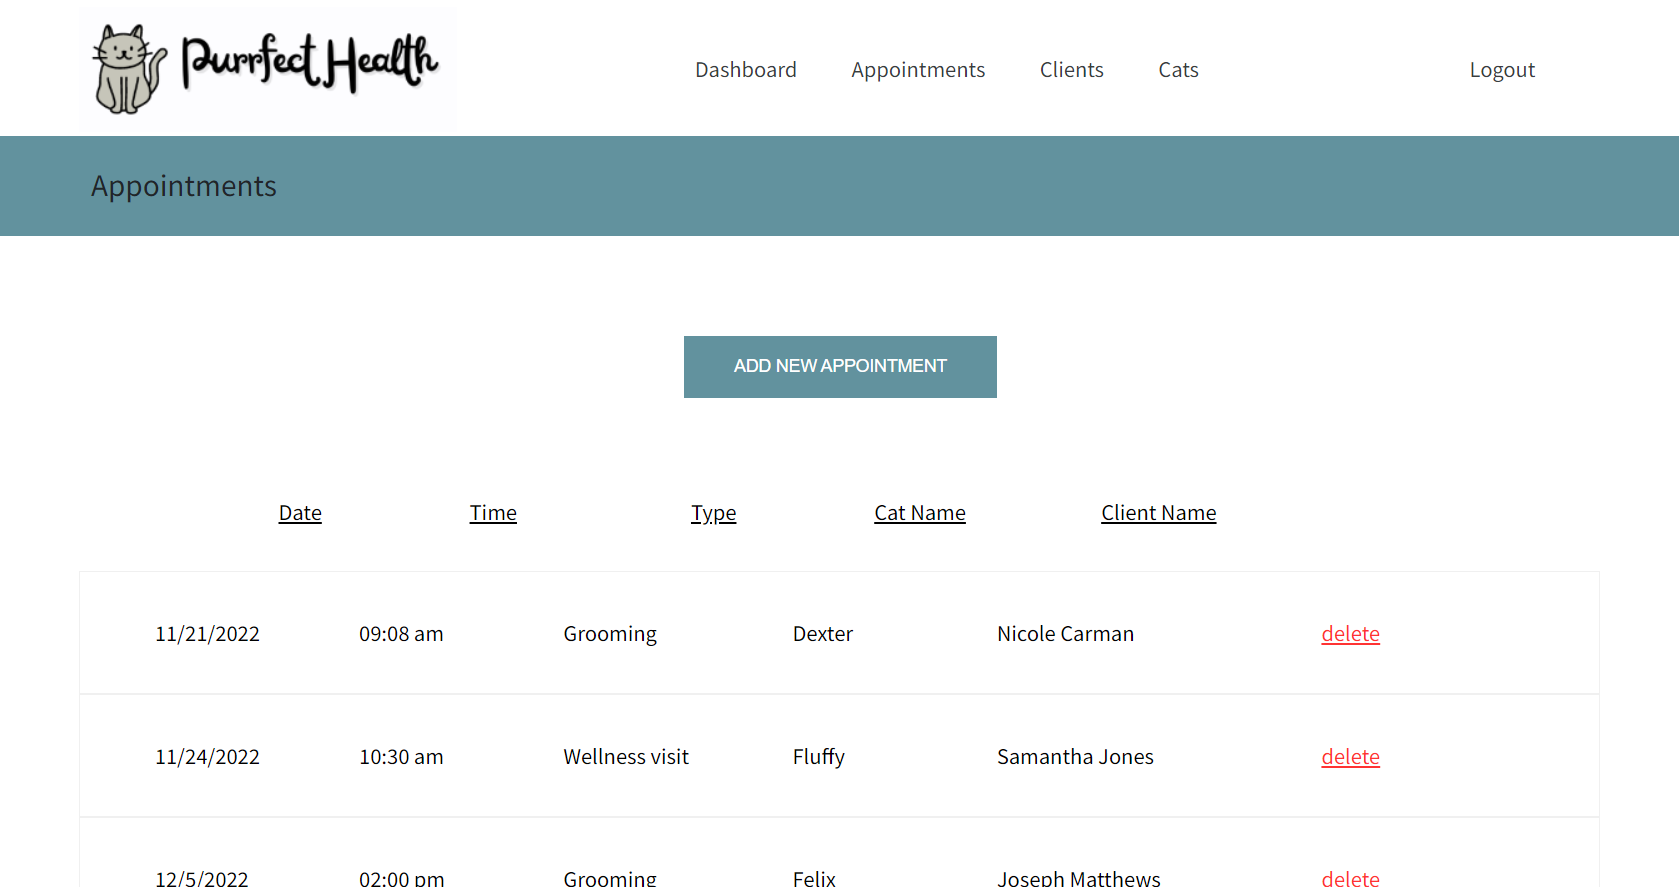
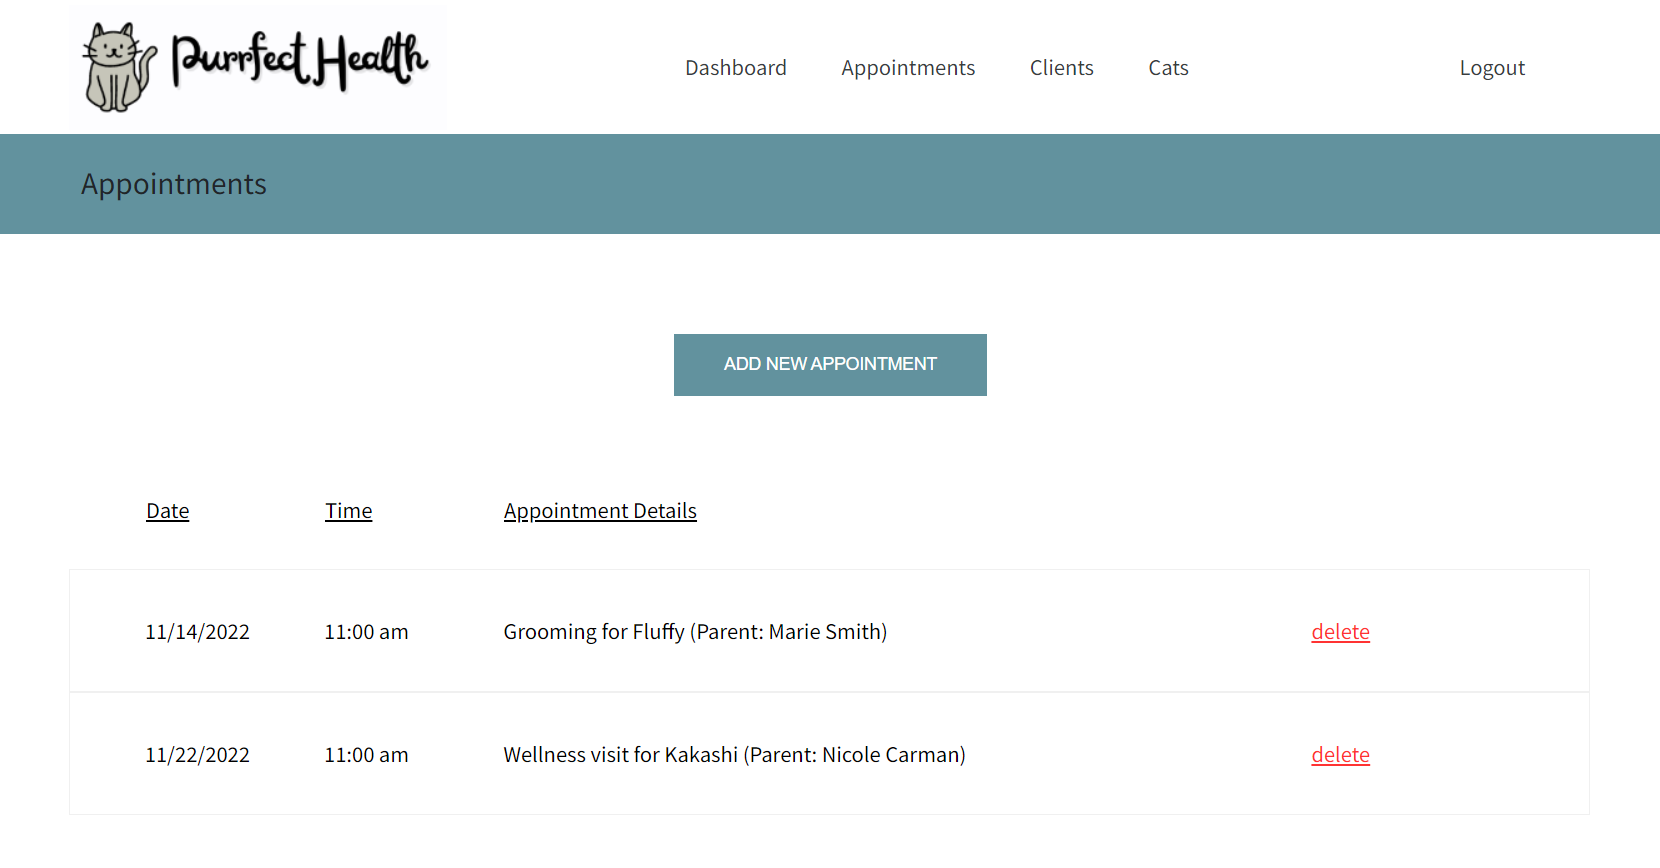
Updated styling on Appointments, Clients, and Cats pages. Updated screenshots for these pages.

diff --git a/src/main/resources/static/cat/cats.js b/src/main/resources/static/cat/cats.js
@@ -93,14 +93,12 @@ const createCatCards = (array) => {
                     catCard.innerHTML = `
                                     <div class="cat-card">
                                          <ul class="cat-styling">
-                                              <li style="font-size: 17px; width: 100px; padding-right:0">${name}</li>
-                                              <li style="font-size: 17px; width: 30px; padding-right: 15px">${age}</li>
-                                              <li style="font-size: 17px; width: 30px; padding-right: 15px">${gender}</li>
-                                              <li style="font-size: 17px; width: 100px; padding-right: 10px">${breed}</li>
-                                              <li style="font-size: 17px; width: 75px; padding-right: 10px;">${pattern}</li>
+                                              <li style="font-size: 17px; width: 125px">${name}, ${age}, ${gender}</li>
+                                              <li style="font-size: 17px; width: 100px">${breed}</li>
+                                              <li style="font-size: 17px; width: 100px">${pattern}</li>
                                               <li style="font-size: 17px; width: 100px;">${color}</li>
-                                              <li style="font-size: 17px; width: 30px; padding: 20px">${altered}</li>
-                                              <li style="font-size: 17px; width: 100px; padding-right: 10px">${vaccine}</li>
+                                              <li style="font-size: 17px; width: 75px">${altered}</li>
+                                              <li style="font-size: 17px; width: 100px">${vaccine}</li>
                                               <li style="font-size: 17px; width: 150px;">${firstName + " " + lastName}</li><br>
                                               <li style="font-size: 17px">Notes: ${notes}</li>
                                               <li><text class="delete" onclick="handleDeleteCat(${catId})">delete</text></li>

diff --git a/src/main/resources/static/dashboardAppointments.js b/src/main/resources/static/dashboardAppointments.js
@@ -76,7 +76,7 @@ const createUpcomingAppointmentCards = (array) => {
                             .then(data => {
 
                                 // save cat's name into variable
-                                const catName = data.name;
+                                const name = data.name;
 
 
                                 // append all of the appointment info to the cards on appointments.html
@@ -86,11 +86,9 @@ const createUpcomingAppointmentCards = (array) => {
                                 appointmentCard.innerHTML = `
                                 <div class="dashboard-appointment-card">
                                     <ul style="padding-left: 10px">
-                                        <li style="font-size: 16px; width: 80px;">${date}</li>
-                                        <li style="font-size: 16px; padding-right: 30px">${time}</li>
-                                        <li style="font-size: 16px; width: 110px;">${type}</li>
-                                        <li class="appointment-styling" style="padding-right: 25px">${firstName} ${lastName}
-                                        <li class="appointment-styling">${catName}</li>
+                                        <li style="font-size: 16px; width: 80px">${date}</li>
+                                        <li style="font-size: 16px; width: 80px">${time}</li>
+                                        <li style="font-size: 16px">${type} for ${name} (Parent: ${firstName} ${lastName})</li>
                                     </ul>
                                 </div>`
 

diff --git a/src/main/resources/static/cat/cats.html b/src/main/resources/static/cat/cats.html
@@ -37,14 +37,12 @@
 
         <div class="cat-card-header">
             <ul style="padding-inline-start: 2px;">
-                <li style="padding-right: 47px; text-decoration: underline">Name</li>
-                <li style="padding-right: 20px; text-decoration: underline">Age</li>
-                <li style="padding-right: 17px; text-decoration: underline">M/F</li>
-                <li style="padding-right: 65px; text-decoration: underline">Breed</li>
-                <li style="padding-right: 34px; text-decoration: underline">Pattern</li>
-                <li style="padding-right: 42px; text-decoration: underline">Color(s)</li>
-                <li style="padding-right: 19px; text-decoration: underline">Altered</li>
-                <li style="padding-right: 70px; text-decoration: underline">Vaccine</li>
+                <li style="width: 125px; text-decoration: underline">Name</li>
+                <li style="width: 100px; text-decoration: underline">Breed</li>
+                <li style="width: 100px; text-decoration: underline">Pattern</li>
+                <li style="width: 100px; text-decoration: underline">Color(s)</li>
+                <li style="width: 75px; text-decoration: underline">Altered</li>
+                <li style="width: 100px; text-decoration: underline">Vaccine</li>
                 <li style="text-decoration: underline">Owner</li>
             </ul>
         </div>

diff --git a/src/main/resources/static/appointment/appointments.js b/src/main/resources/static/appointment/appointments.js
@@ -116,11 +116,9 @@ const createAppointmentCards = (array) => {
                                     appointmentCard.innerHTML = `
                                     <div class="appointment-card">
                                          <ul class="appointment-styling">
-                                              <li class="appointment-styling">${date}</li>
-                                              <li class="appointment-styling">${time}</li>
-                                              <li class="appointment-styling" style="padding-right: 40px">${type}</li>
-                                              <li class="appointment-styling">${name}</li>
-                                              <li style="width: 140px; padding-right: 40px">${firstName + " " + lastName}</li>
+                                              <li style="width: 100px">${date}</li>
+                                              <li style="width: 100px">${time}</li>
+                                              <li style="width: 500px">${type} for ${name} (Parent: ${firstName} ${lastName})</li>
                                               <li><text class="delete" onclick="handleDeleteAppointment(${appointmentId})">delete</text></li>
                                          </ul>
                                     </div>`

diff --git a/src/main/resources/static/client/clients.js b/src/main/resources/static/client/clients.js
@@ -81,12 +81,9 @@ const createClientCards = (array) => {
         clientCard.innerHTML = `
             <div class="client-card">
                  <ul>
-                      <li style="font-size: 17px">${lastName}, ${firstName}</li>
-                      <li style="padding-right: 40px; font-size: 17px">${address}</li>
-                      <li style="padding-right: 35px; font-size: 17px">${city}</li>
-                      <li style="25px; font-size: 17px">${state}</li>
-                      <li style="30px; font-size: 17px">${zipcode}</li>
-                      <li class="client-styling" style="font-size: 17px">${phone}</li>
+                      <li style="font-size: 17px; width: 130px">${lastName}, ${firstName}</li>
+                      <li style="font-size: 17px; width: 300px;">${address}, ${city}, ${state}, ${zipcode}</li>
+                      <li class="client-styling" style="font-size: 17px; width: 125px">${phone}</li>
                       <li class="client-styling" style="font-size: 17px">${email}</li>
                       <li class="delete" onclick="handleDeleteClient(${clientId})">delete</text></li>
                  </ul>

diff --git a/src/main/resources/static/client/clients.html b/src/main/resources/static/client/clients.html
@@ -38,12 +38,9 @@
 
     <div class="client-card-header">
         <ul style="padding-inline-start: 20px">
-            <li style="width: 125px; padding-left: 0; padding-right: 0; text-decoration: underline">Name</li>
-            <li style="width: 125px; padding-right: 0; text-decoration: underline">Address</li>
-            <li style="padding-right: 37px; text-decoration: underline">City</li>
-            <li style="padding-right: 18px; text-decoration: underline">State</li>
-            <li style="padding-right: 45px; text-decoration: underline">Zip</li>
-            <li style="padding-right: 120px; text-decoration: underline">Phone</li>
+            <li style="width: 130px; text-decoration: underline">Name</li>
+            <li style="width: 300px; text-decoration: underline">Address</li>
+            <li style="width: 125px; text-decoration: underline">Phone</li>
             <li style="text-decoration: underline">Email</li>
         </ul>
     </div>

diff --git a/src/main/resources/static/appointment/appointments.html b/src/main/resources/static/appointment/appointments.html
@@ -38,11 +38,9 @@
 
     <div class="appointment-card-header">
         <ul>
-            <li style="padding-left: 120px; padding-right: 95px; text-decoration: underline">Date</li>
-            <li style="padding-right: 116px; text-decoration: underline">Time</li>
-            <li style="padding-right: 87px; text-decoration: underline">Type</li>
-            <li style="padding-right: 85px; text-decoration: underline">Cat Name</li>
-            <li style="text-decoration: underline">Client Name</li>
+            <li style="width: 100px; text-decoration: underline">Date</li>
+            <li style="width: 100px; text-decoration: underline">Time</li>
+            <li style="width: 500px; text-decoration: underline">Appointment Details</li>
         </ul>
     </div>
 

diff --git a/src/main/resources/static/client/client.css b/src/main/resources/static/client/client.css
@@ -51,7 +51,7 @@
     cursor: pointer;
 }
 .client-card-header {
-    margin-left: 228px;
+    margin-left: 175px;
 }
 .header-styling {
     padding-right: 60px;
@@ -64,9 +64,11 @@
 }
 .client-styling, .client-styling ul {
     display: inline-block;
+    font-size: 17px;
 }
 .client-styling li {
     width: 120px;
+    font-size: 17px;
 }
 .extra-padding {
     padding-right: 50px;
@@ -77,6 +79,7 @@
     cursor: pointer;
     right: 15%;
     position: absolute;
+    font-size: 17px;
 }
 .delete {
     color: #FF3333;

diff --git a/src/main/resources/static/appointment/add-appointment.js b/src/main/resources/static/appointment/add-appointment.js
@@ -51,7 +51,6 @@ const handleSubmit = async (e) =>{
         .then(response => response.json())
 
         .then(data => {
-            console.log(data);
             window.location.pathname = '/appointment/appointments.html';
         })
 

diff --git a/src/main/resources/static/appointment/appointment.css b/src/main/resources/static/appointment/appointment.css
@@ -51,7 +51,7 @@
     cursor: pointer;
 }
 .appointment-card-header {
-    margin-left: 150px;
+    margin-left: 152px;
 }
 .header-styling {
     padding-right: 60px;

diff --git a/src/main/java/com/hackbright/purrfectHealth/appointment/AppointmentRepository.java b/src/main/java/com/hackbright/purrfectHealth/appointment/AppointmentRepository.java
@@ -3,6 +3,8 @@ package com.hackbright.purrfectHealth.appointment;
 import org.springframework.data.jpa.repository.JpaRepository;
 import org.springframework.stereotype.Repository;
 
+import java.util.List;
+
 
 @Repository
 public interface AppointmentRepository extends JpaRepository<Appointment, Long> {

diff --git a/README.md b/README.md
@@ -1,0 +1,56 @@
+# PurrfectHealth
+## Hackbright x Optum Java Specializations Final Capstone Project
+
+This is my final capstone project for the Hackbright x Optum cohort. My full-stack web application, PurrfectHealth, is a management system for a veterinary clinic that specializes in feline health. It's a user-friendly system that helps the vet staff keep track of clients and their cats.
+
+Please note: None of the screenshots included in this ReadMe are of actual size.
+
+## Tech stack
+- HTML
+- CSS
+- Javascript
+- Java
+- Spring with Spring Boot
+- Maven
+- JPA
+- Hibernate
+- Fetch
+
+
+## Features
+#### Login and Register
+- Vet staff (users) can register an account, login, and logout of the system.
+
+<img src="https://github.com/nicolecarman/hackbright-java-spec-capstone/blob/main/screenshots/login.png" alt="login page" height="400px">&nbsp;<img src="https://github.com/nicolecarman/hackbright-java-spec-capstone/blob/main/screenshots/register.png" alt="register page" height="400px">
+
+
+#### User Dashboard
+- Upon successful login, the user is taken to a dashboard that displays a welcome message with their first name, several upcoming appointments, a sidebar with quick links to add a new appointment, client (pet owners), or cat, and an area in the sidebar where they can create, view all, and delete notes for themselves.
+
+Note: The screenshot below does not show the entire page. The field to add a note is not shown.
+
+![screenshot of dashboard](/screenshots/dashboard.png)
+
+
+#### View all appointments, clients, or cats
+- Users can click on the Appointments, Clients, and Cats pages to view all existing data in the system. On each page, there is a button provided to staff should they need to add a new appointment, client, or cat. Users can delete an appointment, client, or cat from this page when needed.
+
+<img src="https://github.com/nicolecarman/hackbright-java-spec-capstone/blob/main/screenshots/appointments.png" alt="appointments page" width="700px">
+
+<img src="https://github.com/nicolecarman/hackbright-java-spec-capstone/blob/main/screenshots/clients.png" alt="clients page" width="700px">
+
+<img src="https://github.com/nicolecarman/hackbright-java-spec-capstone/blob/main/screenshots/cats.png" alt="cats page" width="700px">
+
+
+#### Add new appointments, clients, and cats
+- Users can navigate to forms to add a new appointment, client, or pet to the system. They can navigate to these forms by either clicking the quick links to these pages on the dashboard or by clicking the button on the Appointments, Clients, or Cats pages.
+
+<img src="https://github.com/nicolecarman/hackbright-java-spec-capstone/blob/main/screenshots/appointment-form.png" alt="add appointment form" width="700px">
+
+<img src="https://github.com/nicolecarman/hackbright-java-spec-capstone/blob/main/screenshots/client-form.png" alt="add client form" width="700px">
+
+<img src="https://github.com/nicolecarman/hackbright-java-spec-capstone/blob/main/screenshots/cat-form.png" alt="add cat form" width="700px">
+
+
+#### Author
+Nicole Carman started working on PurrfectHealth in late October and finished the project in early November (2022). This project is her final capstone project that she created for the Hackbright x Optum cohort in 2022.
